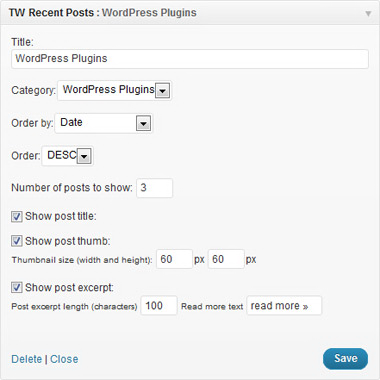
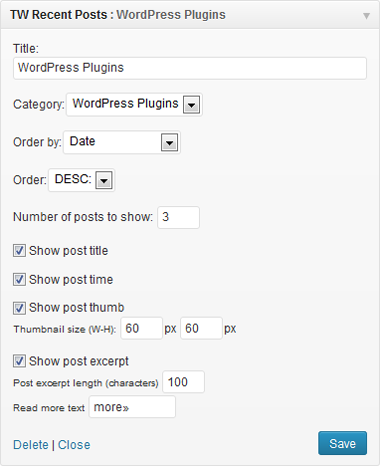
Added new features.
git-svn-id: https://plugins.svn.wordpress.org/tw-recent-posts-widget/trunk@657145 b8457f37-d9ea-0310-8a92-e5e31aec5664

diff --git a/tw-recent-posts-widget.css b/tw-recent-posts-widget.css
@@ -4,7 +4,7 @@ Plugin URI: http://vuckovic.biz/wordpress-plugins/tw-recent-posts-widget
 Description: A simple and flexible widget for WordPress which will show recent posts from selected category.
 Author: Igor Vučković
 Author URI: http://vuckovic.biz
-Version: 1.0
+Version: 1.3
 */
 
 /* R E C E N T   P O S T S
@@ -27,6 +27,14 @@ Version: 1.0
 
 .tw-recent-posts .featured-post h4 a {
 	font-size: 100%
+}
+
+.tw-recent-posts .post-time {
+	font-size: 0.8em;
+	font-style: italic;
+	text-align: right;
+	margin: 0 0 5px 0;
+	padding: 0;
 }
 
 .tw-recent-posts .featured-post img {

diff --git a/tw-recent-posts-widget.php b/tw-recent-posts-widget.php
@@ -5,7 +5,7 @@ Plugin URI: http://vuckovic.biz/wordpress-plugins/tw-recent-posts-widget
 Description: TW Recent Posts Widget is advanced version of the WordPress Recent Posts widget allowing increased customization to display recent posts from category you define.
 Author: Igor Vučković
 Author URI: http://vuckovic.biz
-Version: 1.0.2
+Version: 1.0.3
 */
 
 //	Set the wp-content and plugin urls/paths
@@ -21,7 +21,7 @@ if (! defined ( 'WP_PLUGIN_DIR' ))
 class TW_Recent_Posts extends WP_Widget {
 	
 	//	@var string (The plugin version)		
-	var $version = '1.0.2';
+	var $version = '1.0.3';
 	//	@var string $localizationDomain (Domain used for localization)
 	var $localizationDomain = 'tw-recent-posts';
 	//	@var string $pluginurl (The url to this plugin)
@@ -116,6 +116,7 @@ class TW_Recent_Posts extends WP_Widget {
 		$height = apply_filters ( 'height', isset ( $instance ['height'] ) && is_numeric ( $instance ['height'] ) ? $instance ['height'] : '60' );
 		$length = apply_filters ( 'length', isset ( $instance ['length'] ) && is_numeric ( $instance ['length'] ) ? $instance ['length'] : '100' );
 		$show_post_title = apply_filters ( 'show_post_title', isset ( $instance ['show_post_title'] ) ? ( bool ) $instance ['show_post_title'] : false );
+		$show_post_time = apply_filters ( 'show_post_time', isset ( $instance ['show_post_time'] ) ? ( bool ) $instance ['show_post_time'] : false );
 		$show_post_thumb = apply_filters ( 'show_post_thumb', isset ( $instance ['show_post_thumb'] ) ? ( bool ) $instance ['show_post_thumb'] : ( bool ) false );
 		$show_post_excerpt = apply_filters ( 'show_post_excerpt', isset ( $instance ['show_post_excerpt'] ) ? ( bool ) $instance ['show_post_excerpt'] : false );
 		
@@ -135,18 +136,22 @@ while ($wp_query->have_posts()) : $wp_query->the_post(); ?>
 	title="<?php the_title_attribute() ?>"><?php the_title() ?></a></h4>
 	<?php } ?>
 
+	<?php if ($show_post_time) { ?>
+		<div class="post-time">
+			<?php the_time ( get_option ( 'date_format' ) ); ?>
+		</div>
+	<?php } ?>
+	
 	<?php if ($show_post_thumb && has_post_thumbnail()) { ?>
 		<a href="<?php the_permalink(); ?>"><?php the_post_thumbnail(array($width,$height), array('title' => '', 'class' => 'alignleft')); ?></a>
 	<?php } ?>
 	
 	<?php if ($show_post_excerpt) { ?>
 		<div class="excerpt">
-			<?php echo $this->truncate_post($length) . ($moretext != '') ? ' <a href="' . get_permalink () . '" class="read-more">' . $moretext . '</a>' : '';
-				?>
+			<?php echo $this->truncate_post($length) . ($moretext != '') ? ' <a href="' . get_permalink () . '" class="read-more">' . $moretext . '</a>' : ''; ?>
 		</div>
-	<?php
-			}
-			?>
+	<?php } ?>
+	
 		<div class="clear"></div>
 	</div>
 <?php
@@ -174,6 +179,7 @@ wp_reset_postdata();
 		$height = isset ( $instance ['height'] ) && is_numeric ( $instance ['height'] ) ? $instance ['height'] : '60';
 		$length = isset ( $instance ['length'] ) && is_numeric ( $instance ['length'] ) ? $instance ['length'] : '100';
 		$show_post_title = isset ( $instance ['show_post_title'] ) ? ( bool ) $instance ['show_post_title'] : false;
+		$show_post_time = isset ( $instance ['show_post_time'] ) ? ( bool ) $instance ['show_post_time'] : false;
 		$show_post_thumb = isset ( $instance ['show_post_thumb'] ) ? ( bool ) $instance ['show_post_thumb'] : false;
 		$show_post_excerpt = isset ( $instance ['show_post_excerpt'] ) ? ( bool ) $instance ['show_post_excerpt'] : false;
 ?>
@@ -187,6 +193,7 @@ wp_reset_postdata();
 	id="<?php echo $this->get_field_id('category'); ?>"
 	name="<?php echo $this->get_field_name('category'); ?>">
 	<?php 
+	echo '<option value="0" ' .( '0' == $category ? 'selected="selected"' : '' ). '>'. __('All categories', $this->localizationDomain).'</option>';
 	$cats = get_categories(array('hide_empty' => 0, 'name' => 'category', 'hierarchical' => true));
 	foreach ($cats as $cat) {
 		echo '<option value="' . $cat->term_id . '" ' .( $cat->term_id == $category ? 'selected="selected"' : '' ). '>' . $cat->name . '</option>';
@@ -227,13 +234,19 @@ wp_reset_postdata();
 <p><input id="<?php echo $this->get_field_id('show_post_title'); ?>"
 	name="<?php echo $this->get_field_name('show_post_title'); ?>"
 	type="checkbox" <?php checked($show_post_title); ?> /> <label
-	for="<?php echo $this->get_field_id('show_post_title'); ?>"><?php _e('Show post title:', $this->localizationDomain); ?></label>
+	for="<?php echo $this->get_field_id('show_post_title'); ?>"><?php _e('Show post title', $this->localizationDomain); ?></label>
+</p>
+
+<p><input id="<?php echo $this->get_field_id('show_post_time'); ?>"
+	name="<?php echo $this->get_field_name('show_post_time'); ?>"
+	type="checkbox" <?php checked($show_post_time); ?> /> <label
+	for="<?php echo $this->get_field_id('show_post_time'); ?>"><?php _e('Show post time', $this->localizationDomain); ?></label>
 </p>
 
 <p><input id="<?php echo $this->get_field_id('show_post_thumb'); ?>"
 	name="<?php echo $this->get_field_name('show_post_thumb'); ?>"
 	type="checkbox" <?php checked($show_post_thumb); ?> /> <label
-	for="<?php echo $this->get_field_id('show_post_thumb'); ?>"><?php _e('Show post thumb:', $this->localizationDomain); ?></label><br />
+	for="<?php echo $this->get_field_id('show_post_thumb'); ?>"><?php _e('Show post thumb', $this->localizationDomain); ?></label><br />
 <small><?php _e('Thumbnail size (W-H):', $this->localizationDomain); ?></small>
 <input type="text" size="3"
 	name="<?php echo $this->get_field_name('width'); ?>"
@@ -244,7 +257,7 @@ wp_reset_postdata();
 <p><input id="<?php echo $this->get_field_id('show_post_excerpt'); ?>"
 	name="<?php echo $this->get_field_name('show_post_excerpt'); ?>"
 	type="checkbox" <?php checked($show_post_excerpt); ?> /> <label
-	for="<?php echo $this->get_field_id('show_post_excerpt'); ?>"><?php _e('Show post excerpt:', $this->localizationDomain); ?></label><br />
+	for="<?php echo $this->get_field_id('show_post_excerpt'); ?>"><?php _e('Show post excerpt', $this->localizationDomain); ?></label><br />
 <small><?php _e('Post excerpt length (characters)', $this->localizationDomain); ?></small>
 <input id="<?php echo $this->get_field_id('length'); ?>"
 	name="<?php echo $this->get_field_name('length'); ?>" type="text"
